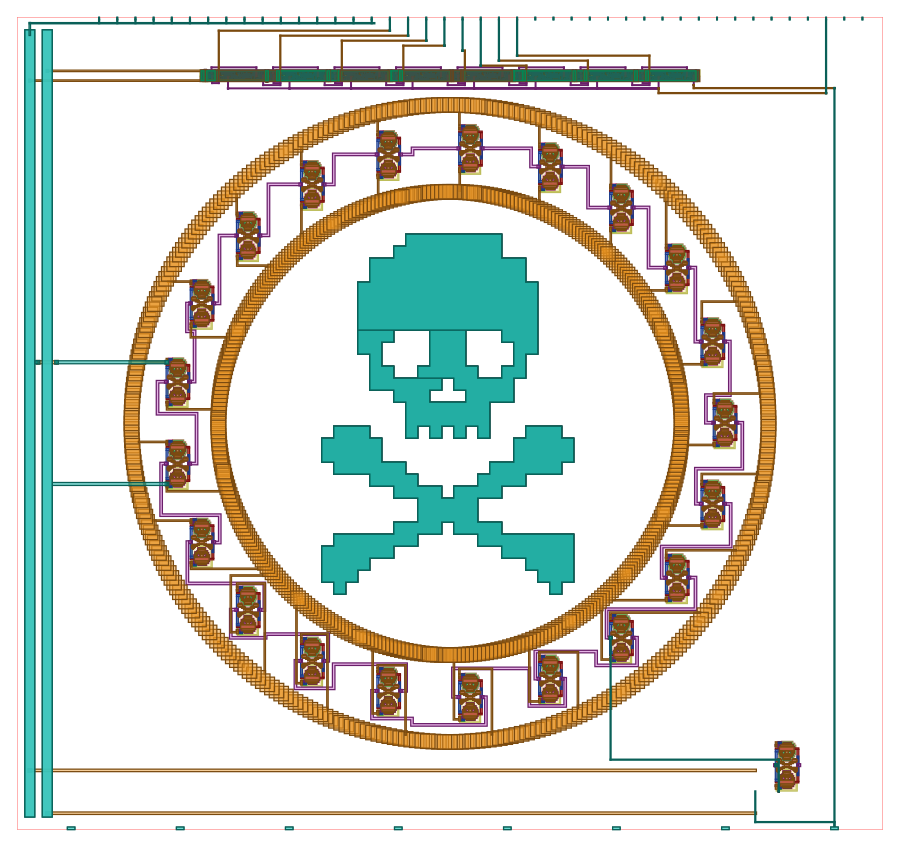
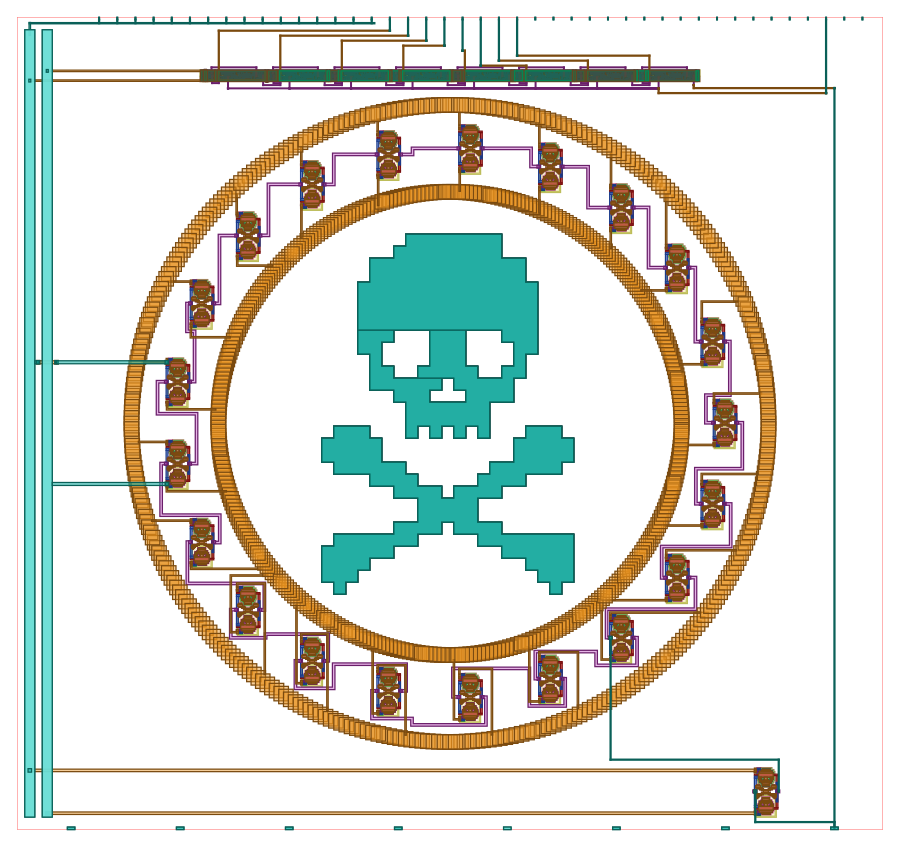
Fix buffer placement + remaining implant DRC (10 -> 4 MSLOT)
The buffer regeneration in the previous commit changed skull_buffer.gds's
coordinate origin (the original was hand-centred at 0,0; the macro's BUF_*
pin offsets depend on that), which misplaced the buffer ~8um -> ANT x3 + M4.2a
x2 + 3 spurious LVS nets. Instead of re-centring from source, restore the
known-good buffer and clean only its geometry in place.

- scripts/sanitize_gf180.py (new): snap-to-5nm-grid + exact-cut + implant-merge
  pass for an already-remapped gf180 cell, preserving its coordinate frame.
  gds/skull_buffer.gds is produced by running it on the original hand-built
  buffer (so the macro's pin offsets still land).
- remap_to_gf180.py: clip Pplus/Nplus off the opposite-type COMP by 0.16um
  (PP.3a/NP.3a). (Reverted the failed --center experiment.)

KLayout sign-off now: 4 real violations, all MSLOT.1 (the skull's wide solid
metal exceeds the 30um no-slot limit at one 43x38um spot) + 7 die-level density
(integration fill). ANT/M4.2a/NP.2/PP.2/PP.3a all cleared. Functionally
unchanged: sim 120.2 MHz + exact /2../256; LVS 60=60 devices, 329=329 nets.

diff --git a/scripts/sanitize_gf180.py b/scripts/sanitize_gf180.py
@@ -1,0 +1,74 @@
+#!/usr/bin/env python3
+"""
+gf180mcuD sign-off geometry sanitizer for an already-remapped gf180 GDS cell.
+
+Two foundry-deck rules are easy to miss because magic DRC does not check them but the KLayout
+sign-off deck (gf180mcu.drc, FEOL/BEOL) does:
+
+  * OFFGRID  - every vertex must sit on the 5nm manufacturing grid.
+  * CO.1 / V*.1 - every contact/via must be an EXACT square (Contact 0.22, Via1/2/3 0.26); a
+    scaled cut (e.g. an IHP 0.16/0.20 cut blown up 1.45x -> 0.23/0.275) is rejected.
+
+This pass snaps all geometry to the 5nm grid and rebuilds every cut at its exact size, centred
+on-grid, WITHOUT touching the cell's coordinate origin, name or labels. It is used to clean the
+hand-built `gds/skull_buffer.gds` (whose centred coordinate frame the macro's BUF_* pin offsets
+depend on, so it must not be regenerated/re-centred from source). `remap_to_gf180.py` applies the
+same grid+cut treatment inline when it builds `gds/ring_gf180.gds` from the IHP source.
+
+Usage: sanitize_gf180.py <in.gds> <out.gds>
+"""
+import sys
+import gdstk
+
+GRID = 0.005
+CUT_SIZE = {(33, 0): 0.22, (35, 0): 0.26, (38, 0): 0.26, (40, 0): 0.26, (41, 0): 0.26}
+IMPLANT = {(31, 0), (32, 0)}     # Pplus, Nplus
+IMPLANT_CLOSE = 0.23             # merge same-type implant gaps < 0.46um (> the NP.2/PP.2 0.4um min)
+
+
+def _snap(v):
+    return round(v / GRID) * GRID
+
+
+def sanitize(in_gds, out_gds):
+    lib = gdstk.read_gds(in_gds)
+    for cell in lib.cells:
+        # rebuild cuts at exact size, centre on-grid
+        cuts = [p for p in cell.polygons if (p.layer, p.datatype) in CUT_SIZE]
+        spec = []
+        for p in cuts:
+            xs = p.points[:, 0]; ys = p.points[:, 1]
+            if max(xs.max() - xs.min(), ys.max() - ys.min()) > 0.40:
+                raise SystemExit(f"{(p.layer, p.datatype)} cut looks like a bar; needs array fill")
+            spec.append(((p.layer, p.datatype), _snap((xs.min() + xs.max()) / 2),
+                         _snap((ys.min() + ys.max()) / 2)))
+        cell.remove(*cuts)
+        for (lay, cx, cy) in spec:
+            s = CUT_SIZE[lay] / 2
+            cell.add(gdstk.rectangle((cx - s, cy - s), (cx + s, cy + s), layer=lay[0], datatype=lay[1]))
+        # merge same-type implants so sub-0.4um gaps disappear (NP.2/PP.2), like the ring remap
+        for lay in IMPLANT:
+            imp = [p for p in cell.polygons if (p.layer, p.datatype) == lay]
+            if not imp:
+                continue
+            merged = gdstk.offset(gdstk.offset(imp, IMPLANT_CLOSE, join="miter", use_union=True),
+                                  -IMPLANT_CLOSE, join="miter", use_union=True)
+            cell.remove(*imp)
+            for p in merged:
+                cell.add(gdstk.Polygon(p.points, layer=lay[0], datatype=lay[1]))
+        # snap remaining geometry + labels to the grid
+        bulk = [p for p in cell.polygons if (p.layer, p.datatype) not in CUT_SIZE]
+        snapped = [gdstk.Polygon([(_snap(x), _snap(y)) for x, y in p.points],
+                                 layer=p.layer, datatype=p.datatype) for p in bulk]
+        cell.remove(*bulk)
+        for p in snapped:
+            cell.add(p)
+        for lb in cell.labels:
+            lb.origin = (_snap(lb.origin[0]), _snap(lb.origin[1]))
+    lib.precision = 1e-9          # standard database precision (geometry already on the 5nm grid)
+    lib.write_gds(out_gds)
+    print(f"sanitized {in_gds} -> {out_gds}")
+
+
+if __name__ == "__main__":
+    sanitize(sys.argv[1], sys.argv[2])

diff --git a/scripts/remap_to_gf180.py b/scripts/remap_to_gf180.py
@@ -117,10 +117,20 @@ def regen_implants(comp_shapes, nwell_shapes, psd_shapes):
         grown = gdstk.offset(enc, IMPLANT_CLOSE, join="miter", use_union=True)
         return gdstk.offset(grown, -IMPLANT_CLOSE, join="miter", use_union=True)
 
+    # keep each implant >=0.16um from the opposite-type diffusion (PP.3a/NP.3a): clip the closed
+    # Pplus off the nfet NCOMP halo and the closed Nplus off the pfet PCOMP halo.
+    pplus = _enc_close(pcomp)
+    nplus = _enc_close(ncomp)
+    if pplus and nmos:
+        pplus = gdstk.boolean(pplus, gdstk.offset(nmos, 0.16, join="miter", use_union=True), "not")
+    pmos = gdstk.boolean(pcomp, nwell, "and") if (pcomp and nwell) else pcomp
+    if nplus and pmos:
+        nplus = gdstk.boolean(nplus, gdstk.offset(pmos, 0.16, join="miter", use_union=True), "not")
+
     out = []
-    for p in _enc_close(pcomp):
+    for p in pplus:
         out.append(gdstk.Polygon(p.points, layer=PPLUS[0], datatype=PPLUS[1]))
-    for p in _enc_close(ncomp):
+    for p in nplus:
         out.append(gdstk.Polygon(p.points, layer=NPLUS[0], datatype=NPLUS[1]))
     for p in gdstk.offset(nmos, 0.45, join="miter") if nmos else []:
         out.append(gdstk.Polygon(p.points, layer=LVPWELL[0], datatype=LVPWELL[1]))